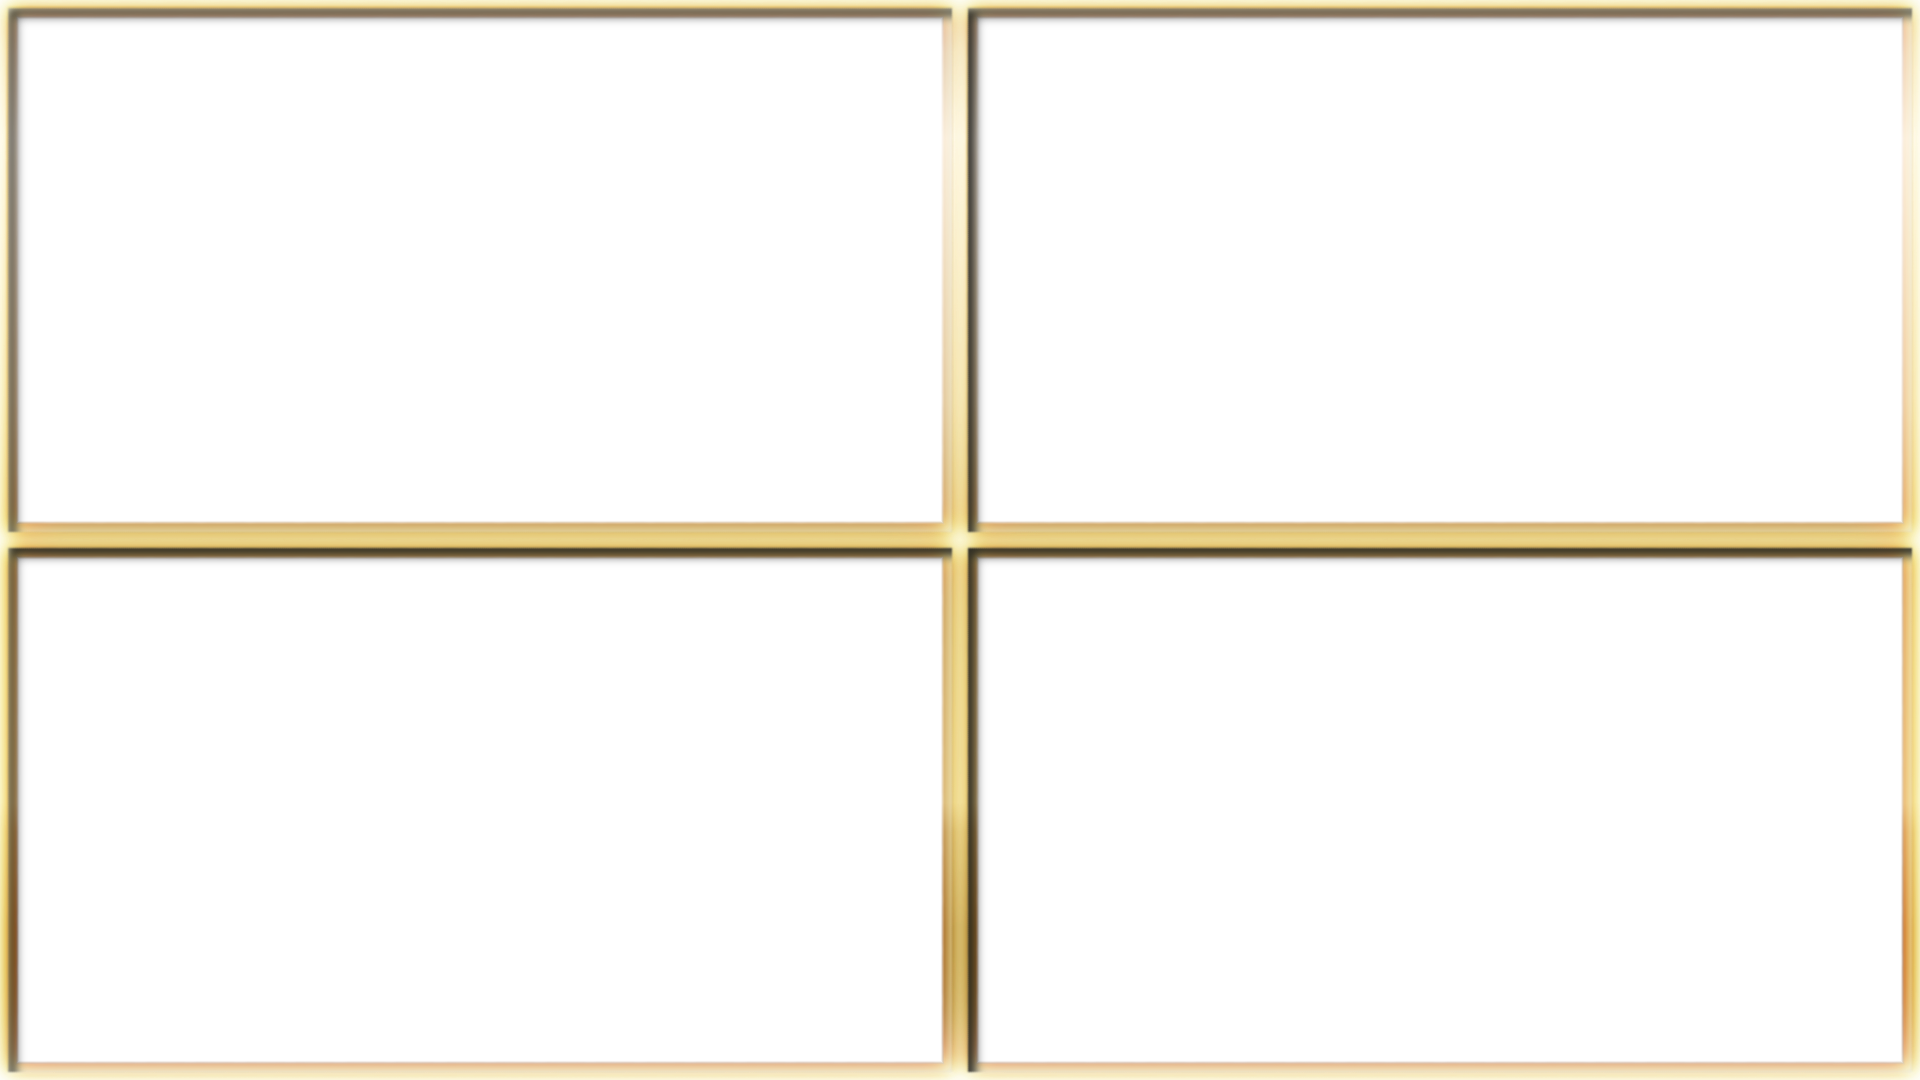
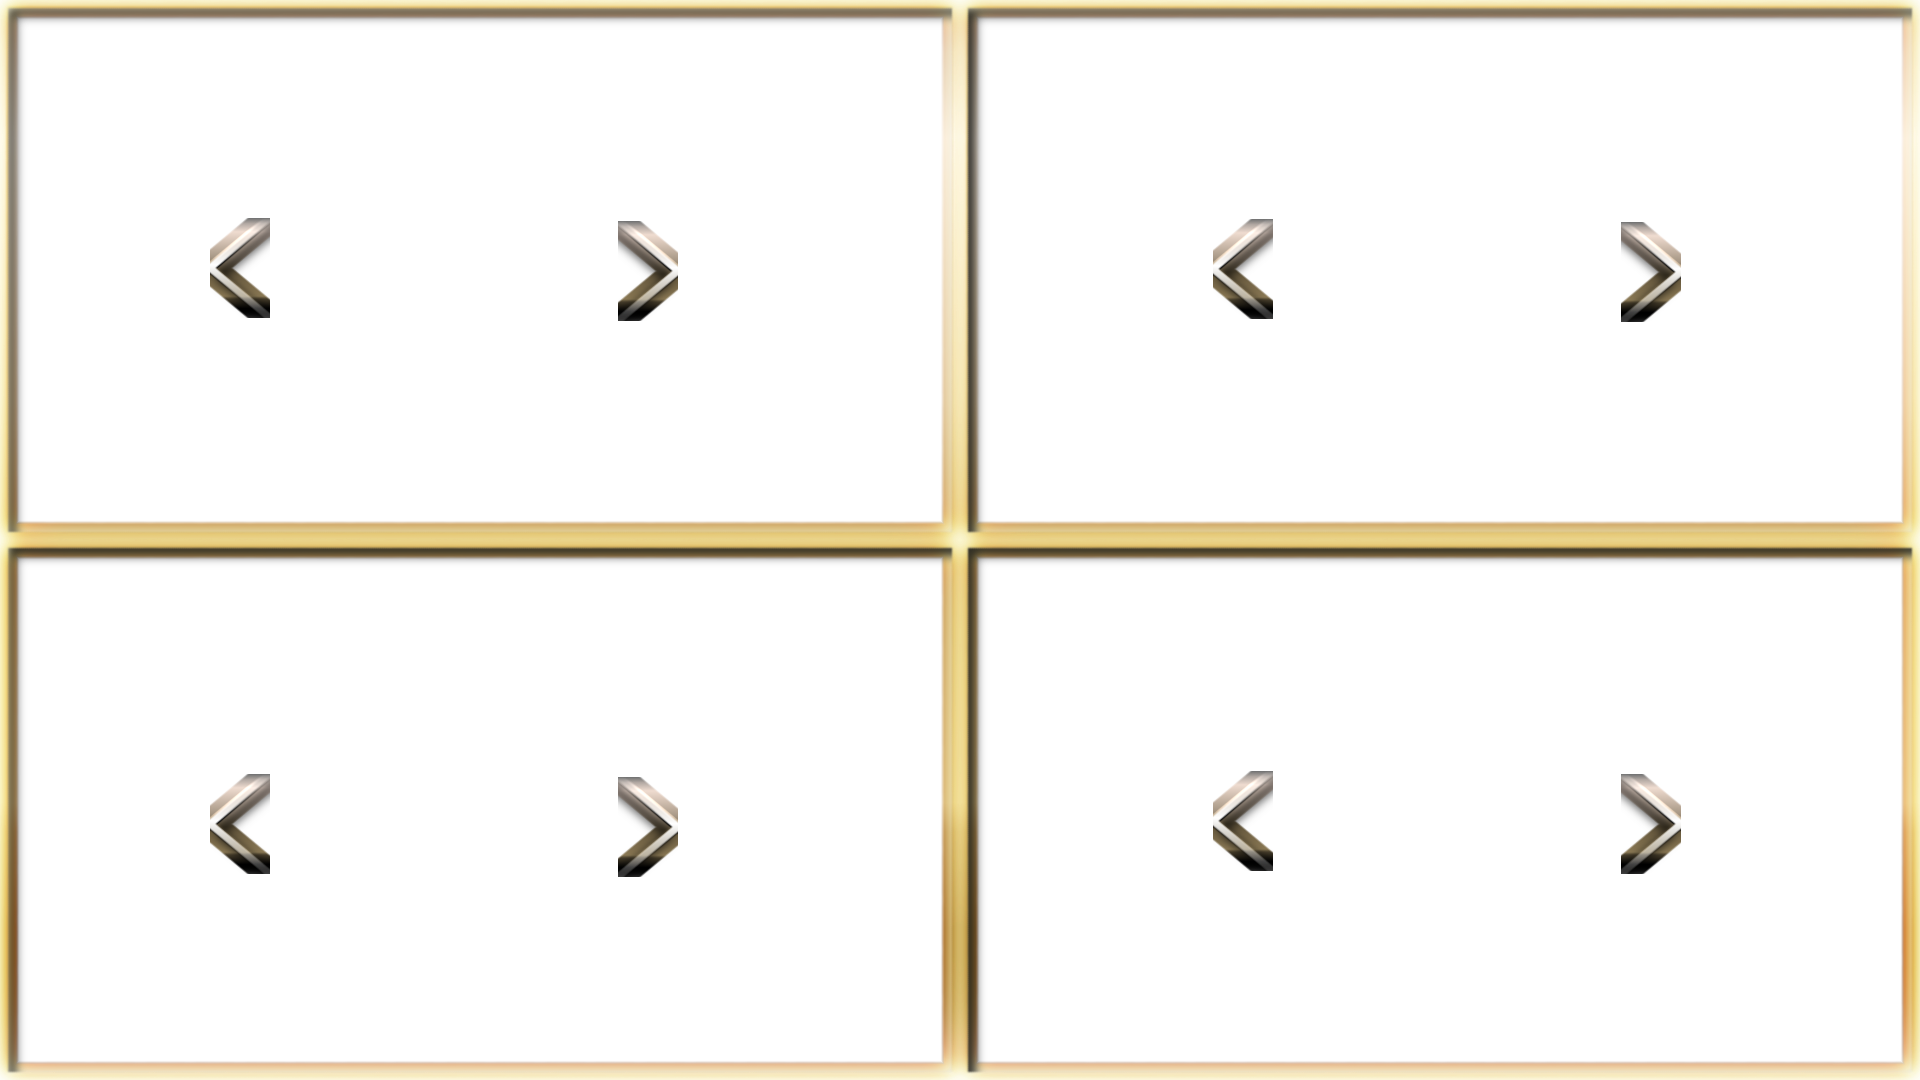
selection

diff --git a/core/src/novus/gdx/screens/CharacterSelection.java b/core/src/novus/gdx/screens/CharacterSelection.java
@@ -1,5 +1,8 @@
 package novus.gdx.screens;
 
+import java.util.ArrayList;
+import java.util.List;
+
 import com.badlogic.gdx.Gdx;
 import com.badlogic.gdx.Input;
 import com.badlogic.gdx.InputAdapter;
@@ -9,15 +12,30 @@ import com.badlogic.gdx.graphics.Texture;
 
 import novus.gdx.game.GameHandler;
 import novus.gdx.game.GameScreen;
+import novus.gdx.graphics.Animation;
 
 public class CharacterSelection extends ScreenAdapter{
 	final GameHandler game;
+	
+	List<Animation> anims = new ArrayList<>();
+	
 	Texture background = new Texture(Gdx.files.internal("../core/assets/TitleBackground.png"));
 	Texture frame = new Texture(Gdx.files.internal("../core/assets/SelectionFrame.png"));
 	Texture darklayer = new Texture(Gdx.files.internal("../core/assets/DarkLayer.png"));
+	Texture arrowLeft = new Texture(Gdx.files.internal("../core/assets/ArrowLeft.png"));
+	Texture arrowRight = new Texture(Gdx.files.internal("../core/assets/ArrowRight.png"));
+	
+	Animation anim = new Animation("../core/assets/animations/remilia.txt");
+	
+	int playerOneSelection = 0;
+	int playerTwoSelection = 0;
 	
 	public CharacterSelection(GameHandler game) {
 		this.game = game;
+		anims.add(new Animation("../core/assets/animations/remilia.txt"));
+		anims.add(new Animation("../core/assets/animations/marisa.txt"));
+		anims.add(new Animation("../core/assets/animations/chen.txt"));
+		anims.add(new Animation("../core/assets/animations/moukou.txt"));
 	}
 	
 	@Override
@@ -27,6 +45,29 @@ public class CharacterSelection extends ScreenAdapter{
             public boolean keyDown(int keyCode) {
                 if (keyCode == Input.Keys.SPACE) {
                     game.setScreen(new GameScreen(game));
+                }
+                if(keyCode == Input.Keys.RIGHT) {
+                	playerTwoSelection++;
+                	if(playerTwoSelection == anims.size()) {
+                		playerTwoSelection = 0;
+                	}
+                } else if(keyCode == Input.Keys.LEFT) {
+                	playerTwoSelection--;
+                	if(playerTwoSelection < 0) {
+                		playerTwoSelection = anims.size() - 1;
+                	}
+                }
+                
+                if(keyCode == Input.Keys.D) {
+                	playerOneSelection++;
+                	if(playerOneSelection == anims.size()) {
+                		playerOneSelection = 0;
+                	}
+                } else if(keyCode == Input.Keys.A) {
+                	playerOneSelection--;
+                	if(playerOneSelection < 0) {
+                		playerOneSelection = anims.size() - 1;
+                	}
                 }
                 return true;
             }
@@ -41,6 +82,10 @@ public class CharacterSelection extends ScreenAdapter{
 	@Override
 	public void render(float delta) {
 		
+		for(int i = 0; i < anims.size(); ++i) {
+			anims.get(i).update();
+		}
+		
 		Gdx.gl.glClearColor(0, 0, 0, 1);
 		Gdx.gl.glClear(GL20.GL_COLOR_BUFFER_BIT);
 		
@@ -49,6 +94,18 @@ public class CharacterSelection extends ScreenAdapter{
 		game.batch.draw(background, 0, 0);
 		game.batch.draw(darklayer, 0, 0);
 		game.batch.draw(frame, 0, 0);
+		
+		int p1X = 445;
+		int p1Y = 1080-270;
+		
+		game.batch.draw(anims.get(playerOneSelection).getTex(), p1X - anims.get(playerOneSelection).getTex().getRegionWidth()/2, 
+				p1Y - anims.get(playerOneSelection).getTex().getRegionHeight()/2);
+		
+		int p2X = 1455;
+		int p2Y = 1080-270;
+		
+		game.batch.draw(anims.get(playerTwoSelection).getTex(), p2X - anims.get(playerTwoSelection).getTex().getRegionWidth()/2, 
+				p2Y - anims.get(playerTwoSelection).getTex().getRegionHeight()/2);
 		
 		game.batch.end();
 	}
